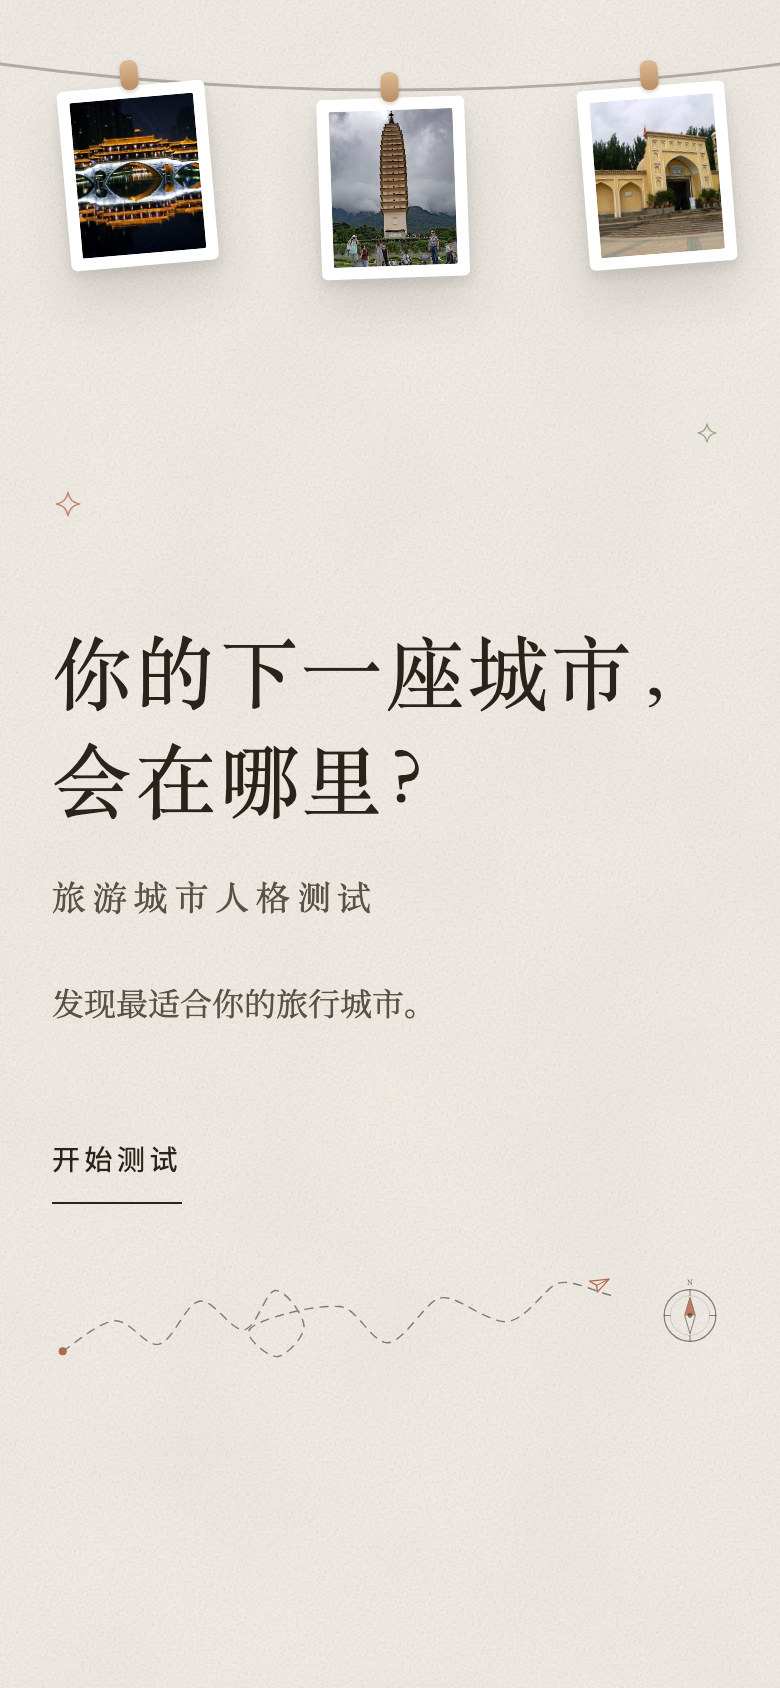
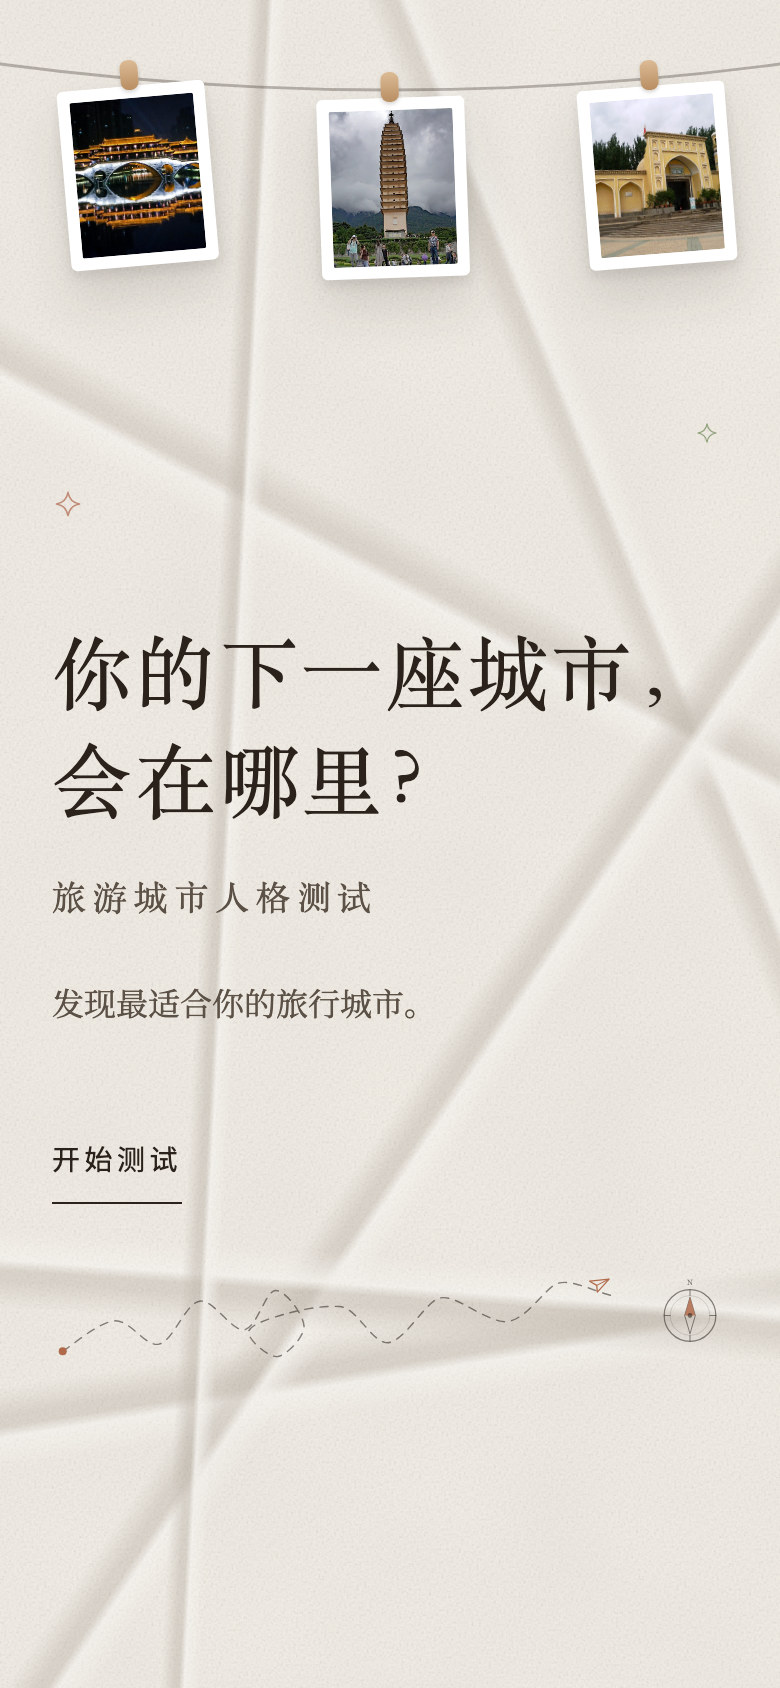
feat: 纸张褶皱感；补充四种人格的概率分析
纸张褶皱
- 在颗粒之上再加一层「折痕」：每条折痕是一条暗线 + 紧挨的亮线，
  暗线代表凹进去的折缝，亮线代表被顶起的一侧
- 关键做法：两者颜色互相抵消，所以纸不会整体变暗
  （实测平均纸色只从 (234,230,223) 变成 (232,228,221)）
- 效果：局部极差 19 -> 39，标准差 2.48 -> 6.87，
  大尺度（褶皱）极差 1.4 -> 9.3，翻了 6.6 倍
- 纯 CSS 渐变实现，没有滤镜、没有新图片；首屏 FCP 140ms

四种人格概率（把 4^11 = 419 万种答题组合全部枚举）
- S 街巷烟火型 28.88%，R 山海松弛型 29.01%，
  H 历史审美型 20.66%，E 异域探索型 21.45%
- 不是完全平均：S/R 偏高，H/E 偏低，最大最小相差 1.40 倍
- 另外有 12.97% 的组合会出现并列，并列时按 S>R>H>E 取靠前的
- 结论放在回复里，评分规则本身未改动

sw.js 缓存版本 v4 -> v5；index.html 的 ?v= 同步到 5。
script.js 未改。

diff --git a/style.css b/style.css
@@ -60,6 +60,44 @@ body::before {
     opacity: 0.26;
 }
 
+/* 纸被折过、压过的褶皱。
+   每条折痕由「一条暗线 + 紧挨着的一条亮线」组成——
+   暗线代表凹进去的折缝，亮线代表被顶起来的那一侧。
+   两者颜色互相抵消，所以整张纸不会整体变暗，只是多了立体的折痕。 */
+body::after {
+    content: "";
+    position: fixed;
+    inset: 0;
+    z-index: 0;
+    pointer-events: none;
+    background-image:
+        linear-gradient(93deg,
+            rgba(120, 105, 90, 0) 28.6%, rgba(120, 105, 90, 0.55) 30.2%,
+            rgba(120, 105, 90, 0.55) 30.8%, rgba(255, 255, 255, 0.95) 31.4%,
+            rgba(255, 255, 255, 0) 33.2%),
+        linear-gradient(4deg,
+            rgba(120, 105, 90, 0) 21.8%, rgba(120, 105, 90, 0.5) 23.4%,
+            rgba(120, 105, 90, 0.5) 24%, rgba(255, 255, 255, 0.9) 24.6%,
+            rgba(255, 255, 255, 0) 26.4%),
+        linear-gradient(124deg,
+            rgba(120, 105, 90, 0) 59.6%, rgba(120, 105, 90, 0.5) 61.2%,
+            rgba(120, 105, 90, 0.5) 61.8%, rgba(255, 255, 255, 0.9) 62.4%,
+            rgba(255, 255, 255, 0) 64.2%),
+        linear-gradient(208deg,
+            rgba(120, 105, 90, 0) 34.8%, rgba(120, 105, 90, 0.45) 36.4%,
+            rgba(120, 105, 90, 0.45) 37%, rgba(255, 255, 255, 0.85) 37.6%,
+            rgba(255, 255, 255, 0) 39.4%),
+        linear-gradient(171deg,
+            rgba(120, 105, 90, 0) 76.6%, rgba(120, 105, 90, 0.5) 78.2%,
+            rgba(120, 105, 90, 0.5) 78.8%, rgba(255, 255, 255, 0.9) 79.4%,
+            rgba(255, 255, 255, 0) 81.2%),
+        linear-gradient(68deg,
+            rgba(120, 105, 90, 0) 71.6%, rgba(120, 105, 90, 0.42) 73.2%,
+            rgba(120, 105, 90, 0.42) 73.8%, rgba(255, 255, 255, 0.8) 74.4%,
+            rgba(255, 255, 255, 0) 76.2%);
+    opacity: 0.34;
+}
+
 .page {
     position: relative;
     z-index: 2;

diff --git a/index.html b/index.html
@@ -40,14 +40,14 @@
                     "family=ZCOOL+XiaoWei&" +
                     "display=swap";
             } else {
-                link.href = "assets/fonts/fonts.css?v=4";
+                link.href = "assets/fonts/fonts.css?v=5";
             }
 
             document.head.appendChild(link);
         })();
     </script>
 
-    <link rel="stylesheet" href="style.css?v=4">
+    <link rel="stylesheet" href="style.css?v=5">
 </head>
 
 <body data-screen="home">
@@ -235,7 +235,7 @@
         <section id="done-screen" class="screen done-screen is-hidden"></section>
     </main>
 
-    <script src="script.js?v=4"></script>
+    <script src="script.js?v=5"></script>
 </body>
 
 </html>

diff --git a/sw.js b/sw.js
@@ -6,7 +6,7 @@
         （v1 -> v2），用户下次打开就会拿到新版本。
    ========================================================= */
 
-const CACHE_VERSION = "v4";
+const CACHE_VERSION = "v5";
 
 const CACHE_NAME = "travel-city-personality-" + CACHE_VERSION;
 
